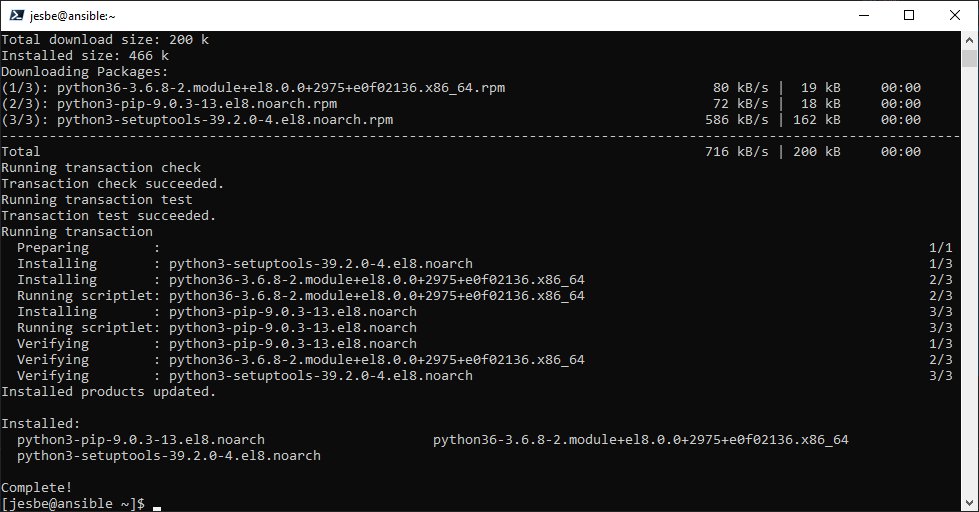
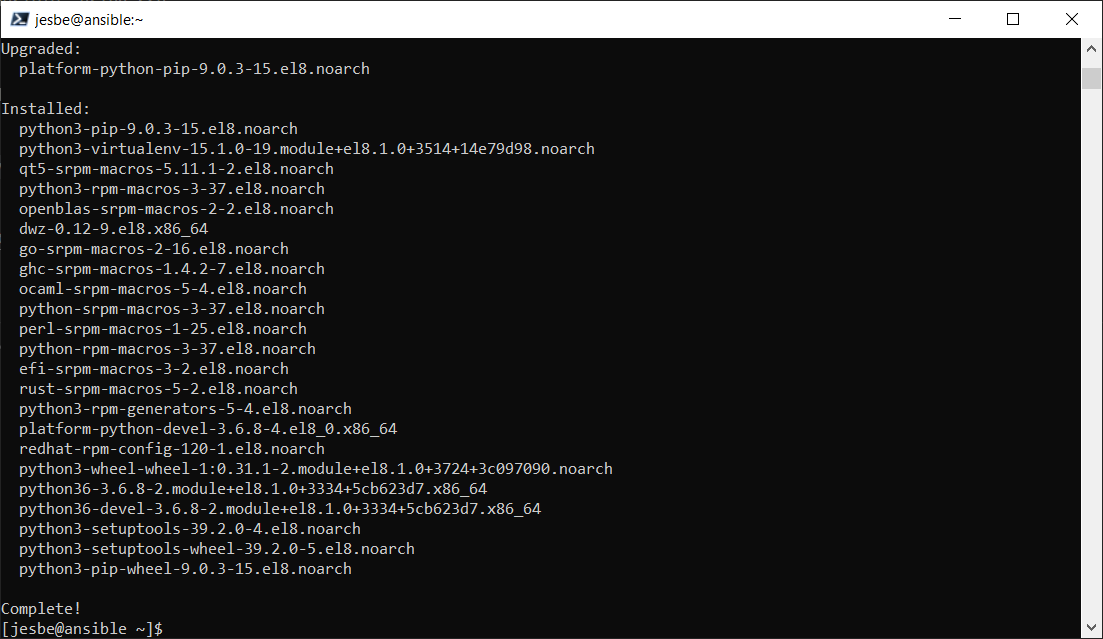
new pics

diff --git a/lab01/lab1.md b/lab01/lab1.md
@@ -2,6 +2,8 @@
 
 In this session we will install ansible on server ansible, and connect to linux - server1 and windows - server3
 
+Ansible is a Python based program, we will install python in a Python Virtuelenv, in which we can isolate the python version and modules from the system.  
+
 ## Prepare
 
 We will need the servers, ansible, server1 and server3 to be up and running - by default they are started after creation
@@ -15,7 +17,7 @@ __Type:__
 Note: Sudo Password is equal to your user account password
 
 ```bash
-sudo dnf install -y python3-pip
+sudo dnf install -y python3-pip virtualenv
 ```
 
 ![Alt text](pics/001_install_pip3.png?raw=true "Install Python3 PIP3")
